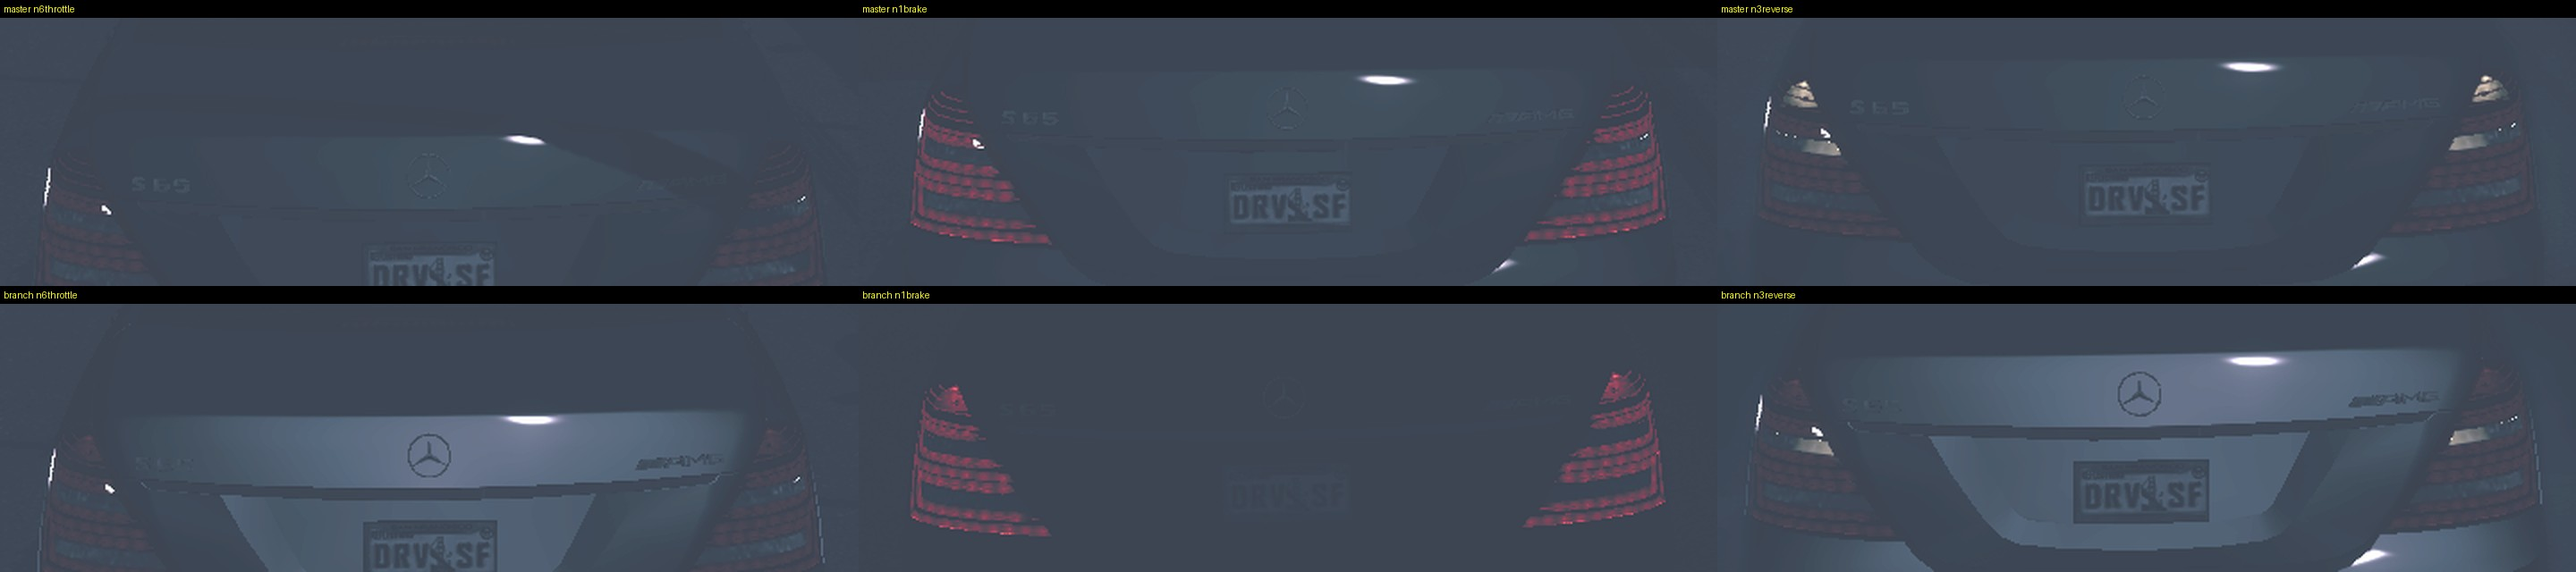
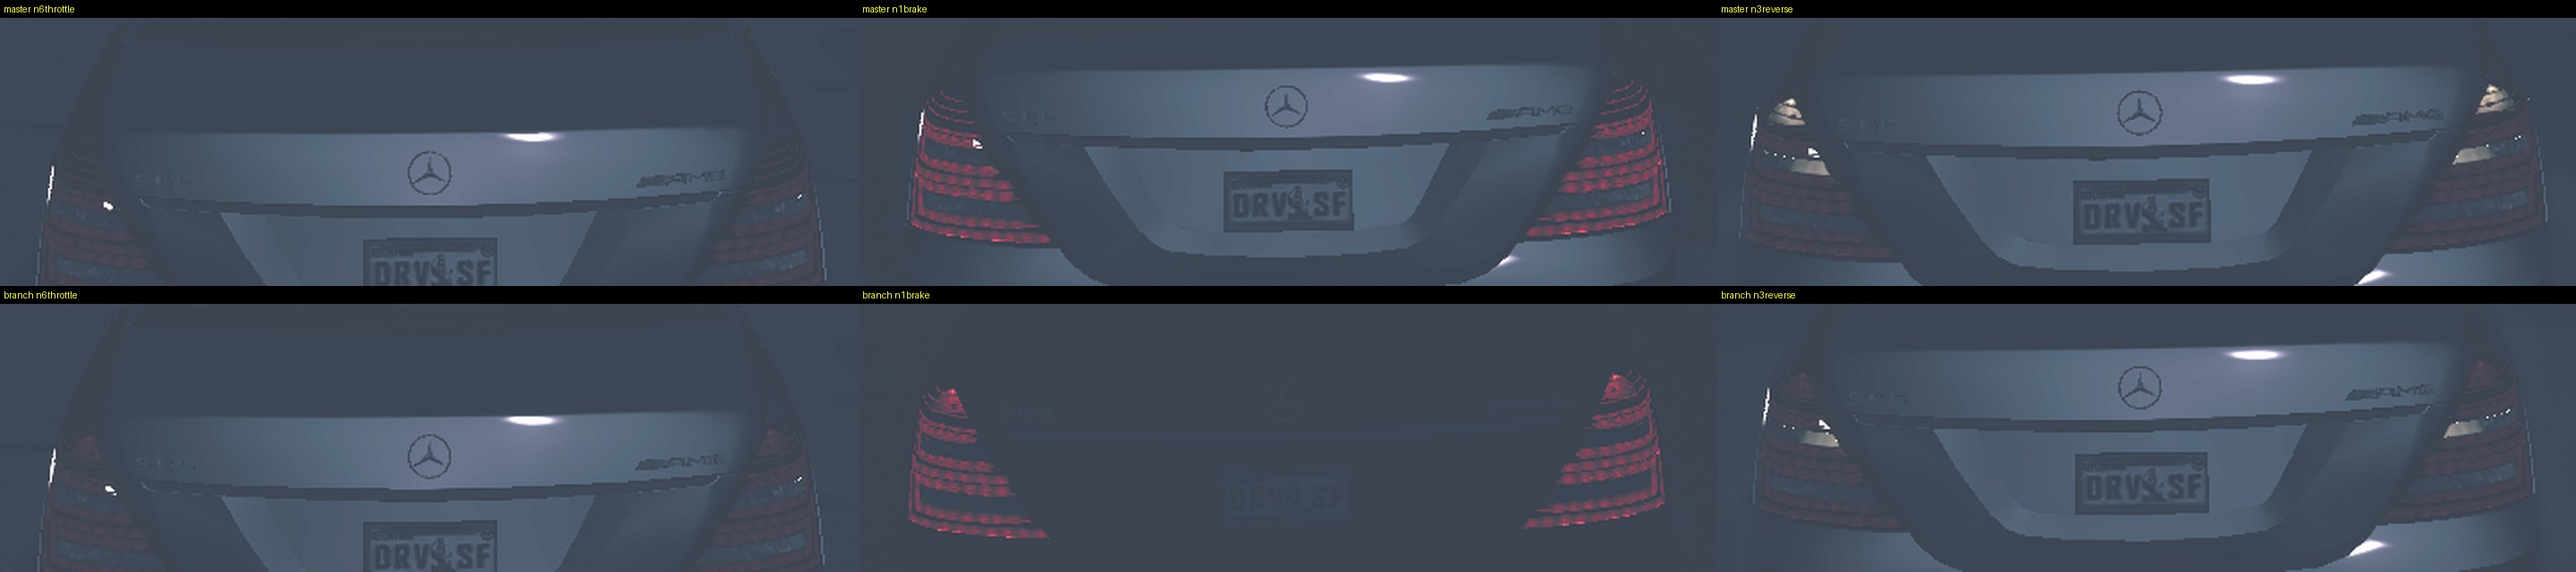
Lamps: notes and final images

diff --git a/research/lights.md b/research/lights.md
@@ -39,12 +39,12 @@ later PR replaced a rule, the earlier section says so in one line.
   their own Forza section, else (lenses and covers) with a lamp whose
   outline overlaps theirs, else stay unlit. Front reflectors never light
   ([#174](#clear-covers-over-reflectors-with-no-lamp-issue-174)).
-- Rear lamp triangles drawn on red texels (the mean of the baked atlas's
-  texels, `lights.seen_sampler`) light only with a red lamp: reverse ones
-  become tail lamps, an indicator side mostly drawn red brakes and
-  indicates (0x19/0x1A), and red reflector, lens and cover triangles take
-  the nearest red lamp behind or inside their piece, of their section, or
-  within 0.35 m, else stay unlit
+- Last, what each rear triangle is drawn with (the mean of the baked
+  atlas's texels under it, `lights.seen_sampler`): an indicator lamp drawn
+  90% red brakes and indicates (0x19/0x1A), and any other triangle drawn red
+  on a reverse or amber indicator lamp moves to the nearest red lamp behind
+  or inside its piece, of its section, or within 0.35 m, else stays unlit.
+  Lenses keep the lamp they lie over
   ([red drawn texels](#red-texels-lit-as-reverse-and-indicator-lamps-issue-103)).
 - Head lamps without a head lamp technique: the front clear lenses, else
   the headlight sections' reflectors, else their cover glass. With one, the
@@ -1856,6 +1856,77 @@ In game (VM 1, `-Views 'rear,nose,rear+night,nose+night,rear+hitfront' -Palette 
 `out/l6/after3` run `vm1-20261029-084829`): the GTI VR6's bumper fog lamps no longer glow in the dark mood;
 its head lamps do as before (`img/lamps6-gtivr6-bumper-dark-ingame.jpg`).
 
+### Red texels lit as reverse and indicator lamps (issue #103)
+
+Symptom (offline-checked): after #220, 43 cars braked with under half of their visible red rear lamp area
+(#103's recheck); 32 of them had red texels lit as reverse or indicator lamps.
+
+Cause (confirmed-static): Forza draws reverse and indicator bulbs, the reflector bowls round them and the
+lenses and covers over them on red texels as often as on white or amber ones: the Mercedes S65 AMG's lower
+tail lamp halves are a red `textured_reflector` round its reverse and indicator strips, the Lexus IS F's
+boot lid lamps a red bowl round its reverse and fog bulbs, half the Koenigsegg Agera's ring is indicator
+and its lower lamp reverse, half the Ford Raptor's tail lamp is reverse, the Dodge Durango's
+`lights_gls_noemit` covers are red over both. The lamp plan gave each such triangle the lamp it lies over
+or round (#174), whatever it is drawn with. A lamp glows in its entry's colour (`texel.a x colour[b2]`,
+"How a lamp lights"), so the red lit white-pink when reversing (the IS F's whole inner lamp, run
+`vm1-20261029-142330`) or amber when indicating, and never braked. Vanilla draws its reverse lamps white
+and its indicators amber, and lights its red rear lamp texels with the tail and brake lamps (0x18, 0x02,
+0x19/0x1A).
+
+Change (`LampPlan.build` `seen`, `_place_clear`; `forza2dsf.convert` passes `lights.seen_sampler` over the
+lens bake's atlas, `Texturing.atlases`):
+
+- Every rear lamp triangle, lens, cover and reflector gets the texel class of what it is drawn with: the
+  mean of its baked texels, alpha aside (the alpha is the glow mask). The mean, as the eye averages a
+  lamp's pattern: most texels of the Raptor's red bowls are pale highlights (a majority test kept them
+  white), while a triangle across its white reverse window and the red is red on the whole.
+- After the plan is placed, a rear indicator lamp drawn at least 90% red (`RED_INDICATOR_SHARE`, over all
+  its triangles, lenses included) brakes and indicates (BRAKE_IND, 0x19/0x1A), as vanilla's US-style cars
+  and `_red_lens_indicators`' lenses do: the Durango, the Infiniti IPL G coupe, the Tour bus. The
+  indicators left keep cluster 0 first (`assign` ranks second clusters last: the Sierra RS500's main amber
+  indicator lost its entry when its red side lamp, cluster 0, went).
+- Then every rear triangle drawn red on a lamp that isn't red (reverse, indicator) moves to the nearest red
+  lamp among those behind or inside its piece, else of its section, else the red lamp with a triangle
+  within 0.35 m; else it stays unlit.
+- Lenses choose the lamp behind them by what they lie over before any of this (a reflector counts as the
+  lamp it surrounds): the Honda Integra Type R Mugen's and VW Golf R's white lenses over red-drawn reverse
+  bulbs and the Pontiac Trans Am 02's white lens over a red bowl stay reverse lamps; the Countach's amber
+  lenses over red-drawn indicator bulbs stay indicators. Tried first: turning red-drawn reverse bulbs into
+  tail lamps before the lenses were placed lost the Golf R's reverse lamp (284 cm2) and most of the
+  Integra's; deciding red indicators on the bulbs alone made the Countach's amber lenses brake red, and a
+  50% share the S65 AMG's clear indicator strip.
+
+Roster (offline, `out/l7/lamp_survey.py` in this PR's worktree: master's and this `lights.py` on one
+`Texturing.plan` per car, each car's host-picks host, an orthographic view from behind at LOD 3, 5 mm,
+visible Lights pixels by the type of their entry and the class of their triangle's mean baked texel;
+565 cars, NIS_Leaf_11 needs the gamedb the survey doesn't pass):
+
+| | master | this change |
+| --- | ---: | ---: |
+| cars braking with under half of their visible red | 34 | 19 |
+| visible red that brakes | 325,711 cm2 | 351,869 cm2 |
+| visible red on reverse entries (cars over 10 cm2) | 19,701 cm2 (149) | 0 |
+| visible red on indicator-only entries (cars over 10 cm2) | 6,694 cm2 (44) | 0 |
+| visible white on reverse entries | 59,304 cm2 | 59,304 cm2 |
+| visible amber on indicator entries | 18,931 cm2 | 18,931 cm2 |
+| cars whose braking red area changes by over 10 cm2 | | 161 |
+| rear indicators that become red brake-indicators | | 6 cars |
+
+This survey's red test is the triangle's mean texel; #220's (each pixel's texel, red minus the larger of
+green and blue at least 40) counted 43 on master. The 19 left: unlit rear retro-reflectors and NASCAR decal
+lamps (3,538 cm2; Forza lights neither, #174), red fog lamps (495), the BMW M3 E92's `drlred` tails (0x03,
+414; vanilla has 93 red 0x03 tail lamps), the Dodge Stealth Turbo's full-width reflector panel, and
+TOY_6_SC430_08, which has no lamp technique at LOD 3 (Open 10).
+
+In game (VM 1, `-Lights -LightsDriveOnly`: idle, throttle, brake, brake into reverse, by day and in the dark
+mood; vanilla 241 first, then the S65 AMG, Raptor, IS F and Durango; master's lamp code `out/l7/before`
+against this change `out/l7/after`). The final code `vm2-20261029-155636` /
+`vm2-20261029-160154` (`-Palette 0`); an earlier form of the change `vm1-20261029-142330` / `-142909`. On the throttle the tails are dark on both. Braking, the S65 AMG's whole tail
+lamp lights where master lit its upper rows only, and the IS F's lamps light further in. Reversing,
+master's IS F lit its whole inner lamp white-pink, this change only its white reverse window; the Durango
+likewise (`img/lamps7-s65-brake-reverse-ingame.jpg`, `img/lamps7-isf-brake-reverse-ingame.jpg`; the offline
+plan `img/lamps7-red-texels-plan.jpg`).
+
 ### Open
 
 1. Front lamps in the lamp-phase mode (`-Lights`): neither copy faces the
@@ -1911,13 +1982,14 @@ its head lamps do as before (`img/lamps6-gtivr6-bumper-dark-ingame.jpg`).
    "Tiles across edges"), and swatch lenses that are only partly scrambled
    keep a flat tint over part of the lens (Charger SRT8 12, Viper CC, MP4-12C
    and the rest of #141's 14 cars that #164 didn't take). Issue #229.
-10. Brake coverage (#103): 43 of 566 cars brake with under half of their
-    visible red rear lamp area after #220 (red texels lit as reverse or
-    indicator lenses, the M3 E92's 0x03 `drlred` tails, decal lamps, unlit
-    reflectors), and FOR_EscortRSCosworth_92 and TOY_6_SC430_08 have no lamp
+10. Brake coverage (#103): after "Red texels lit as reverse and indicator
+    lamps" 19 of 565 cars brake with under half of their visible red rear
+    lamp area, all by design (unlit retro-reflectors and decal lamps, red fog
+    lamps, the M3 E92's 0x03 `drlred` tails, the Stealth's reflector panel)
+    but FOR_EscortRSCosworth_92 and TOY_6_SC430_08, which have no lamp
     technique at Forza LOD 3, so their full entries have almost no lamps
-    (the Escort only its front indicators). The ZR1's
-    `lindtailside` lamps (#220) weren't driven on the throttle in game.
+    (the Escort only its front indicators). The ZR1's `lindtailside` lamps
+    (#220) weren't driven on the throttle in game.
 11. Lamps on the other end's entries (#146): 37 on 20 cars after #219, 29 of
     them reverse lamps on hosts with no rear entry left. Fog lamps on full
     hosts stay unlit (#219).
